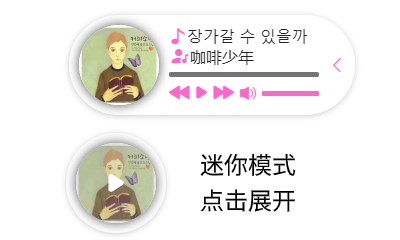
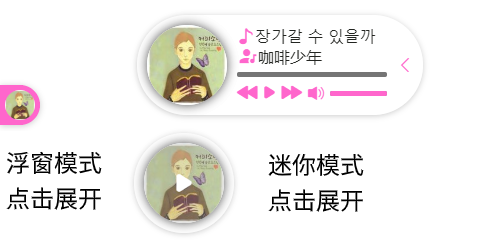
feat：add dark mode、volume remember and float mode

diff --git a/bin/BgMusic.vue b/bin/BgMusic.vue
@@ -1,10 +1,13 @@
 <template>
-  <div class="reco-bgm-panel" :style="panelPosition">
-    <div class="reco-bgm-box">
-      <!-- 播放器 -->
-      <audio id="bgm" :src="audio[curIndex].url" ref="bgm" @ended="bgmEnded" @canplay="playReady" @timeupdate="timeUpdate"></audio>
+  <div class="reco-bgm-panel">
+    <!-- 播放器 -->
+    <audio id="bgm" :src="audio[curIndex].url" ref="bgm" @ended="bgmEnded" @canplay="playReady" @timeupdate="timeUpdate"></audio>
+    <div v-show="isFloat" @click="showBgmInfo" class="reco-float-box" :style="floatStyle">
+      <img :src="audio[curIndex].cover">
+    </div>
+    <div class="reco-bgm-box" v-show="!isFloat" :style="panelPosition">
       <!-- 封面 -->
-      <div class="reco-bgm-cover" @click="showBgmInfo" :style="`background-image:url(${audio[curIndex].cover}),url(${dcover})`">
+      <div class="reco-bgm-cover" @click="showBgmInfo" :style="`background-image:url(${audio[curIndex].cover})`">
         <!-- mini操作栏 -->
         <div v-show="isMini" class="mini-operation">
           <i v-show="this.curPlayStatus === 'playing' && isMini" @click.stop="pauseBgm" class="reco-bgm reco-bgm-pause"></i>
@@ -68,20 +71,37 @@ function rotate () {
     btn.style.transition = '0.1s linear'
   }, 100)
 }
-import default_cover from './assets/d.png'
+import remember from './remember.js'
 export default {
+  mixins: [remember],
+  mounted () {
+    if (this.floatPosition === 'left') {
+      this.floatStyle = {
+        ...this.floatStyle,
+        left: '0'
+      }
+    } else {
+      this.floatStyle = {
+        ...this.floatStyle,
+        right: '0'
+      }
+    }
+  },
   data () {
     return {
-      dcover: default_cover,
       panelPosition: POSITION,
       curIndex: 0,
       curPlayStatus: 'paused',
       audio: AUDIOS,
       autoplay: AUTOPLAY,
-      isMini: MINI,
+      isFloat: false,
+      isMini: false,
       firstLoad: true,
       isMute: false,
-      isFault: false
+      isFault: false,
+      floatPosition: FLOAT_POSITION,
+      floatStyle: FLOAT_STYLE,
+      shrinkMode: SHRINK_MODE
     }
   },
   watch: {
@@ -96,18 +116,39 @@ export default {
   methods: {
     // 隐藏Bgm信息
     hideBgmInfo () {
-      this.isMini = true
+      const isMobile = !!/Android|webOS|iPhone|iPad|iPod|BlackBerry|IEMobile|Opera Mini/i.test(
+        navigator.userAgent
+      )
+      if (isMobile) {
+        this.isFloat = true
+      } else {
+        if (this.shrinkMode === 'float') {
+          this.isFloat = true
+        } else if (this.shrinkMode === 'mini') {
+          this.isMini = true
+        }
+      }
     },
     // 显示Bgm信息
     showBgmInfo () {
-      this.isMini = false
+      if (this.shrinkMode === 'float') {
+        this.isFloat = false
+      } else if (this.shrinkMode === 'mini') {
+        this.isMini = false
+      }
     },
     // audio canplay回调事件
     playReady () {
       // 第一次加载时初始化音量条并处理自动播放事件
       if (this.firstLoad) {
-        const vbar_width = this.$refs.bgm.volume * 100 + '%'
-        this.$refs.vbar.style.width = vbar_width
+        if (this.getVolume()) {
+          const percent = this.getVolume()
+          this.$refs.vbar.style.width = percent * 100 + '%'
+          this.$refs.bgm.volume = percent
+        } else {
+          const vbar_width = this.$refs.bgm.volume * 100 + '%'
+          this.$refs.vbar.style.width = vbar_width
+        }
         this.firstLoad = false
         /* 自动播放的处理
         if (this.autoplay) {
@@ -191,19 +232,27 @@ export default {
         this.isMute = !(percent > 0)
         this.$refs.vbar.style.width = percent * 100 + '%'
         this.$refs.bgm.volume = percent
+        this.setVolume(this.$refs.bgm.volume)
       }
     },
     // 静音
     muteBgm () {
       this.isMute = true
+      this.setVolume(this.$refs.bgm.volume)
       this.$refs.vbar.style.width = 0
       this.$refs.bgm.volume = 0
     },
     // 取消静音
     unMuteBgm () {
       this.isMute = false
-      this.$refs.vbar.style.width = '100%'
-      this.$refs.bgm.volume = 1
+      if (this.getVolume()) {
+        const percent = this.getVolume()
+        this.$refs.vbar.style.width = percent * 100 + '%'
+        this.$refs.bgm.volume = percent
+      } else {
+        this.$refs.vbar.style.width = '100%'
+        this.$refs.bgm.volume = 1
+      }
     }
   }
 }
@@ -213,11 +262,12 @@ export default {
 @require './assets/iconfont/iconfont.css'
 .reco-bgm-panel
   height 100px
-  position fixed
-  display flex
   .reco-bgm-box
+    position fixed
+    display flex
     height 80px
     background-color rgba(255, 255, 255, 0.7)
+    background-color var(--bgm-bg-color)
     border-radius 50px
     padding 10px
     box-shadow 0 1px 6px 0 rgba(0,0,0,0.2)
@@ -331,18 +381,22 @@ export default {
       cursor pointer
       i
         color $accentColor
-  .reco-bgm-right-box
-    margin 37.5px 0 37.5px 4px
-    width 25px
-    height 25px
+  .reco-float-box
+    width 40px
+    height 40px
+    background-color $accentColor
+    position fixed
+    left 0
+    bottom 200px
+    border-top-right-radius 20px
+    border-bottom-right-radius 20px
     display flex
     justify-content center
     align-items center
     cursor pointer
-    background-color $accentColor
-    border-radius 50%
-    box-shadow 0 1px 6px 0 rgba(0,0,0,0.2)
-    i
-      font-size 15px
-      color #ffffff
+    box-shadow var(--box-shadow)
+    img
+      width 30px
+      height 30px
+      border-radius 50%
 </style>

diff --git a/index.js b/index.js
@@ -2,16 +2,21 @@ const { resolve } = require('path')
 
 module.exports = (options, context) => ({
   define () {
-    const { position, audios, autoplay, mini } = options
+    const { position, audios, autoplay, shrinkMode, floatPosition, floatStyle } = options
     return {
       POSITION: position || {
         left: '10px',
         bottom: '10px',
         'z-index': '999999'
       },
-      MINI: mini || false,
       AUDIOS: audios,
-      AUTOPLAY: autoplay || true // 是否开启自动播放
+      AUTOPLAY: autoplay || true, // 是否开启自动播放
+      SHRINK_MODE: shrinkMode || 'mini',
+      FLOAT_POSITION: floatPosition || 'left',
+      FLOAT_STYLE: floatStyle || {
+        bottom: '100px',
+        'z-index': '999999'
+      }
     }
   },
   name: '@vuepress-reco/vuepress-plugin-bgm-player',

diff --git a/bin/remember.js b/bin/remember.js
@@ -1,0 +1,18 @@
+export default {
+  data () {
+    return {
+      volumeKey: 'reco-bgm-volume'
+    }
+  },
+  methods: {
+    setVolume (val) {
+      sessionStorage.setItem(this.volumeKey, val)
+    },
+    getVolume () {
+      return sessionStorage.getItem(this.volumeKey)
+    },
+    removeVolume () {
+      sessionStorage.removeItem(this.volumeKey)
+    }
+  }
+}

diff --git a/README.md b/README.md
@@ -22,12 +22,15 @@
 |-|-|-|-|-|
 |audios|播放列表|Array|无|-|
 |position|播放器位置|Object|{ left: '10px', bottom: '10px', 'z-index': '999999'}|-|
-|mini|是否默认为迷你模式|Boolean|false|true/false|
+|shrinkMode|指定PC端缩小为哪种模式|String|'mini'|'mini'/'float'|
+|floatPosition|指定浮窗模式浮动在哪一侧|String|'left'|'left'/'right'|
+|floatStyle|浮窗的样式|Object|{ bottom: '100px', 'z-index': '999999' }|-|
 
 
 ### audios示例
 
 - audios为播放列表的对象数组
+- 无默认值必须配置
 - 示例
   ```
   audios: [
@@ -53,14 +56,16 @@
     }
   ]  
   ```
+### shrinkMode说明
+
+- PC端可以通过shrinkMode来指定缩小时缩为哪种模式
+- 移动端默认缩小为浮窗模式
 
 ## About
 
 - **兼容性**：vuepress-plugin-bgm-player是使用HTML5的Audio开发，故兼容性与Audio的兼容性相关
+- 对于 `vuepress-theme-reco` 的 `dark` 模式的适配  
+  ![dark.png](./images/dark.png)
 - **开发计划**
   - 自动播放
-  - 切歌时的加载动画
-  - 增加浮窗模式
-  - 增加音量记忆
-  - 增加进度条记忆
   - 移动端适配问题修复
